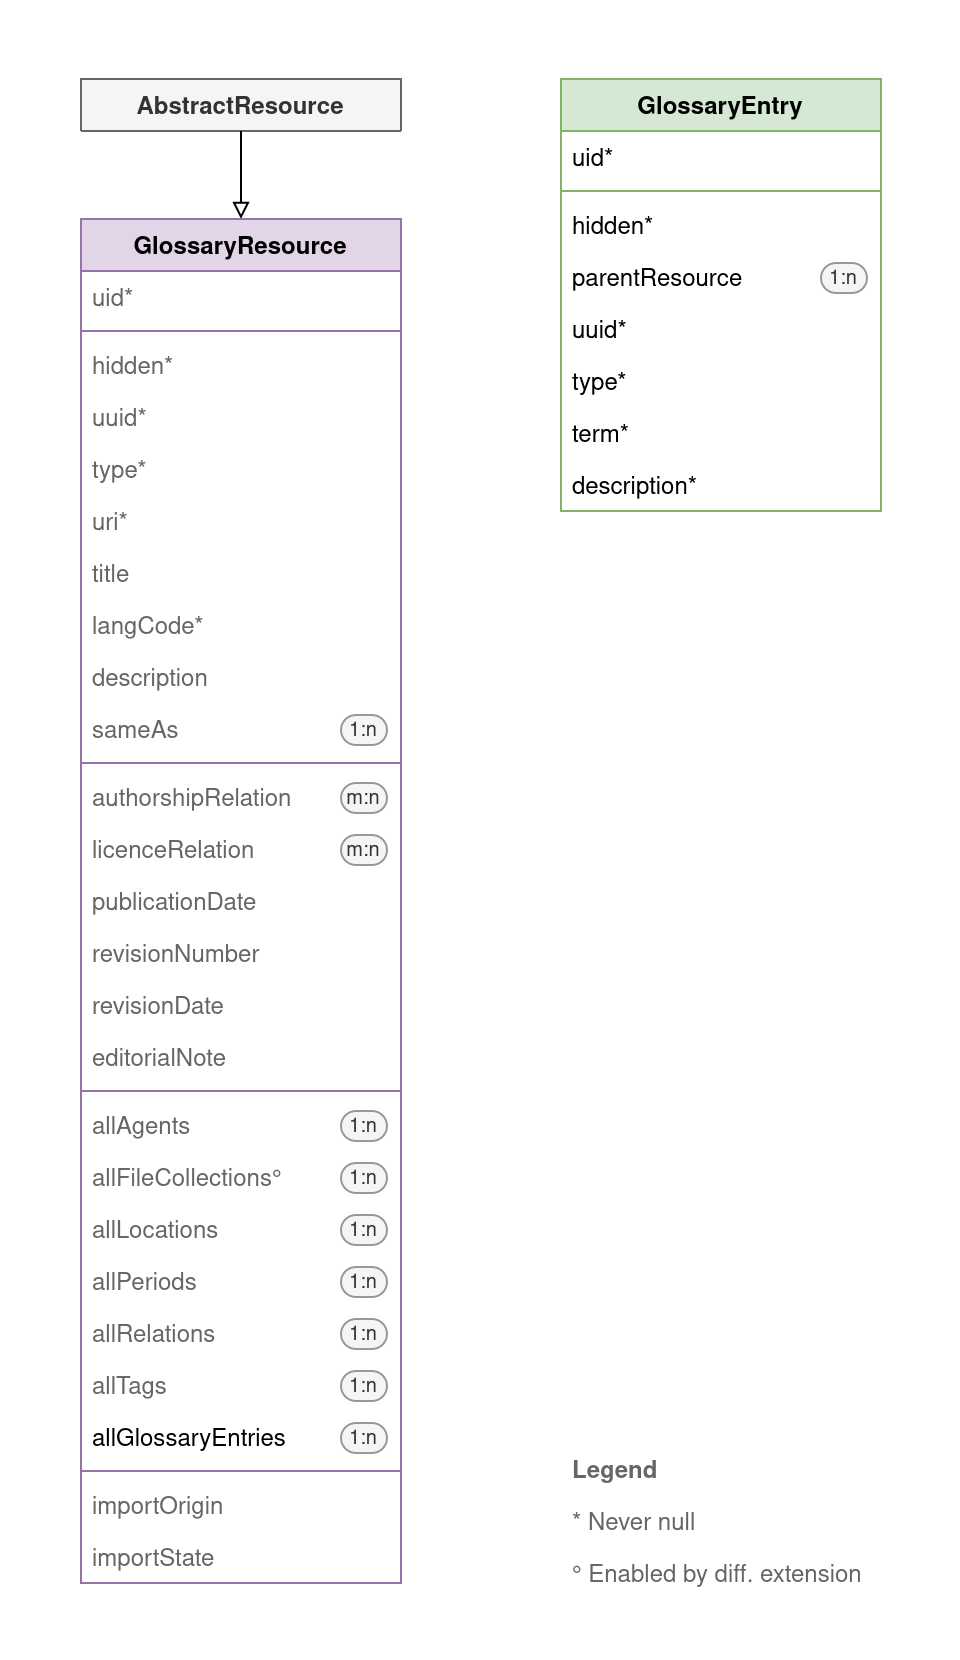
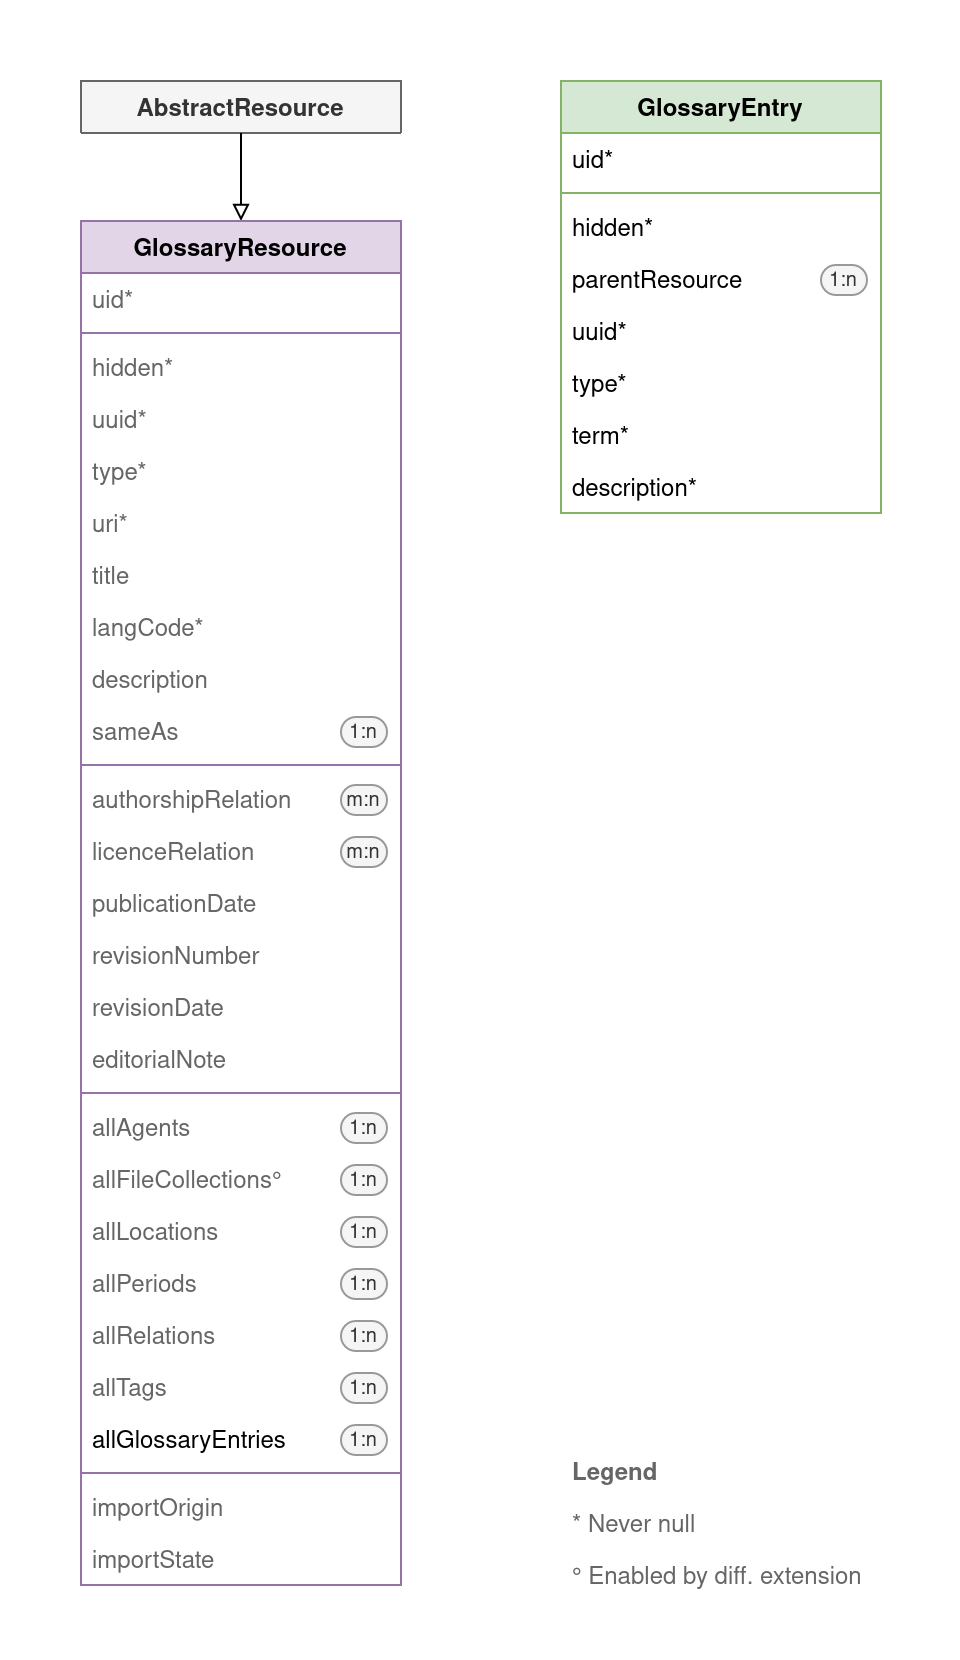
Update and publish documentation

diff --git a/Configuration/Extbase/Persistence/Classes.php b/Configuration/Extbase/Persistence/Classes.php
@@ -22,6 +22,6 @@ return [
     Digicademy\CHFBase\Domain\Model\AbstractResource::class => [
         'subclasses' => [
             'glossaryResource' => Digicademy\CHFGloss\Domain\Model\GlossaryResource::class,
-        ]
+        ],
     ],
 ];

diff --git a/Documentation/DataModel/Index.rst b/Documentation/DataModel/Index.rst
@@ -24,7 +24,7 @@ Graphical overview
 
 ..  figure:: /DataModel/DataModel.png
     :alt: Data model of the extension
-    :target: /DataModel/DataModel.png
+    :target: ../_images/DataModel.png
     :class: with-shadow
 
     Overview of the extension's data model. Check the :ref:`api-reference`
